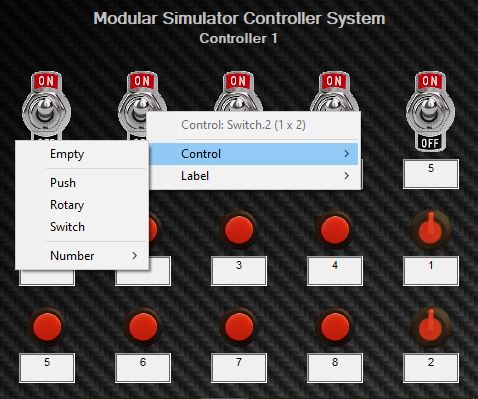
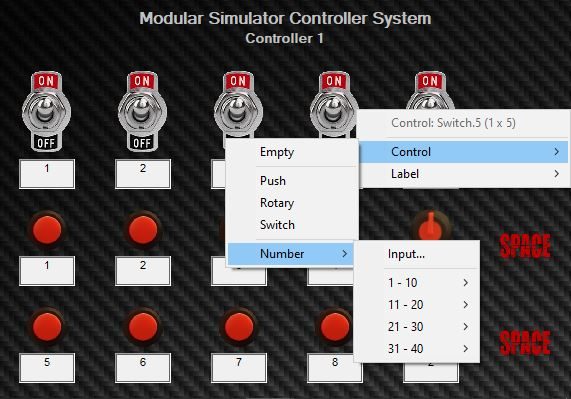
Documentation Update

diff --git a/Docs/Installation & Configuration.md b/Docs/Installation & Configuration.md
@@ -4,7 +4,7 @@ Download one of the releases, preferably the latest stable build, and unzip it a
 
 ![](https://github.com/SeriousOldMan/Simulator-Controller/blob/main/Docs/Images/Unblock.JPG)
 
-You might still encounter execution errors later on, beacause of Windows security restrictions. This is nothing I can change at the moment, at least not without buying an expensive certificate, that secures the source of the binaries. Therefore, an additional step might be necessary: You will find a little Powershell script in the *Utilities* folder, which you can copy to the *Binaries* folder and execute it there with Administrator privileges. These are the commands, which need be executed:
+You might still encounter execution errors later on because of Windows security restrictions. This is nothing I can change at the moment, at least not without buying an expensive certificate, that secures the source of the binaries. Therefore, an additional step might be necessary: You will find a little Powershell script in the *Utilities* folder, which you can copy to the *Binaries* folder and execute it there with Administrator privileges. These are the commands, which need be executed:
 
 	takeown.exe /F . /R /D N
 	Get-ChildItem -Path '.' -Recurse | Unblock-File
@@ -47,7 +47,7 @@ Hint: Beside simply running the configuration tool by double clicking it, there 
 
 The configuration tool consists of several pages or tabs. Below you will find a description of each tab. Beside the pages, there are the well known buttons "Ok", "Cancel" and "Apply".
 
-Note: You will find field labels that look like well known hyperlinks at several places in the configuration tool. Yes, you can click on them and a context sensitive section of the this documentation will be opened in your browser. With the *Save* mode dropdown menu in the lower left corner of the configuration dialog you can choose between *manual* and *Automatic* save mode of all your changes to list items in the different editors.
+Note: You will find field labels that look like well known hyperlinks at several places in the configuration tool. Yes, you can click on them and a context sensitive section of the this documentation will be opened in your browser. With the *Save* mode dropdown menu in the lower left corner of the configuration dialog you can choose between *Manual* and *Automatic* save mode of all your changes to list items in the different editors.
 
 ### Tab *General*
 
@@ -105,10 +105,13 @@ This tab represents the most important, the most versatile and also the most dif
 
 ![](https://github.com/SeriousOldMan/Simulator-Controller/blob/main/Docs/Images/Configuration%20Tab%204.JPG)
 
-Note: Beginning with Release 2.4, Simulator Controller supports multiple Button Boxes. For the moment, the functions defined on the *Controller tab* will span all Button Boxes. So, the first Button Box might define Button #1 to Button #8 and the second Button Box will define Button #9 onwards. Also, only one mode will be active for all Button Boxes at the same time. This might change in a future version.
+Note: Beginning with Release 2.4, Simulator Controller supports multiple Button Boxes. The functions defined on the *Controller tab* will span all Button Boxes. So, the first Button Box might define Button #1 to Button #8 and the second Button Box will define Button #9 onwards. A sngle mode can use controls from several Button Boxes, but you can also have multiple modes active at the same time, as long as these modes uses controls from distinct Button Boxes. See the documentation on the "System" plugin for more information on [how to control multiple simultaneous modes](https://github.com/SeriousOldMan/Simulator-Controller/wiki/Plugins-&-Modes#plugin-system).
 
-In the first step you have to define the Button Boxes, which will be activated by Simulator Controller, by entering them into the list. The name entered here must be identical to that used, when defining the corresponding Button Box layout and configuration, a task, which is described in a [dedicated documentation chapter](https://github.com/SeriousOldMan/Simulator-Controller/wiki/Installation-&-Configuration#button-box-layouts) below. The order, in which the Button Boxes are entered in the list, establish the order these boxes initially appear on screen, but you can move them around using the mouse later.
+In the first step you have to define the Button Boxes, which will be activated by Simulator Controller, by entering them into the list. Each Button Box must have a name, whihc might be displayed on the visual representation and you must chose a layout definition from the dropdown next to the name entry field. Button Box layouts can be configured using a separate tool, which is described in a [dedicated documentation chapter](https://github.com/SeriousOldMan/Simulator-Controller/wiki/Installation-&-Configuration#button-box-layouts) below. This tool can be opened by pressing the small little button with the three dots next to the dropdown menu.
 
+Note: The order, in which the Button Boxes are entered in the given list, establish the order these boxes initially appear on screen, but you can move them around using the mouse later.
+
+After you have all your Button Boxes created, you must configure the controller actions, which will be associated with the controls on your hardware controller or which might be triggered by other software systems using hotkeys. For each action and its corrsponding binding, you have to create an entry in the *Functions* list.
 In the *Bindings* group, you define one or two hotkeys and corresponding actions, depending on whether you have defined a unary or binary function type. 2-way toggles and dials need two bindings for the "On" and "Off", respectivly the "Increase" and "Decrease" trigger. The binding of a function happens by defining [hotkeys](https://github.com/SeriousOldMan/Simulator-Controller/wiki/Installation-&-Configuration#hotkeys), which might trigger the given function. You can define more than one hotkey descriptor, delimited by the vertical bar "|", for each trigger in the controller tab. This might be useful, if you have several sources, which can trigger a given function. For example you might have a function, which can be triggered by pushing a button on the controller, but also from the keyboard, which might be emulated by another tool, for example a voice recognition software.
 
 Additionally to definining hotkeys for keyboard or controller triggers, you can now use the voice recognition capabilities of Simulator Controller, which were introduced with Release 2.1 for the virtual race engineer (see [update notes](https://github.com/SeriousOldMan/Simulator-Controller/wiki/Update-Notes#release-21) for specific installation information). A voice trigger must be preceeded by "?" and you can use the full [phrase grammar](https://github.com/SeriousOldMan/Simulator-Controller/wiki/Virtual-Race-Engineer#phrase-grammars) capabilities of the voice recognition framework. But in most cases, you will use simple phrases like "?Next Page", which might be used as a voice trigger for the mode switch. Please be aware, that the recognition language uses the language setting, that is chosen in the configuration. As a result, you might have to change your phrases, if you decide to switch to a different language setting in the user interface.
@@ -226,7 +229,7 @@ Important: The ISO language code and the language name itself cannot be changed,
 
 # Button Box Layouts
 
-Beginning with Release 2.5 it is possible to define Button Box layouts using a structured configuration file. A future version will introduce a graphical editor to work on these configurations, but for now you have to create the configuration file using a text editor.
+Beginning with Release 2.5 it is possible to define Button Box layouts using a structured configuration file. Below you find a sample definition for information, but no worries, a graphical editor is available to handle this file.
 
 	[Controls]
 	Switch=2WayToggle;%kButtonBoxImagesDirectory%Photorealistic\Toggle Switch.png;54 x 85
@@ -235,19 +238,29 @@ Beginning with Release 2.5 it is possible to define Button Box layouts using a s
 	[Labels]
 	Label=56 x 30
 	[Layouts]
-	Main Controller.Layout=3 x 5
-	Main Controller.1=Switch.1,Label;Switch.2,Label;Switch.3,Label;Switch.4,Label;Switch.5,Label
-	Main Controller.2=Push.1,Label;Push.2,Label;Push.3,Label;Push.4,Label;Rotary.1,Label
-	Main Controller.3=Push.5,Label;Push.6,Label;Push.7,Label;Push.8,Label;Rotary.2,Label
-	Support Controller.Layout=3 x 4, 20, 60, 20, 15
-	Support Controller.1=Push.9,Label;Push.10,Label;Push.11,Label;Push.12,Label
-	Support Controller.2=Push.13,Label;Push.14,Label;Push.15,Label;Push.16,Label
-	Support Controller.3=Push.17,Label;Push.18,Label;Push.19,Label;Push.20,Label
+	Controller 1.Layout=3 x 5
+	Controller 1.1=Switch.1,Label;Switch.2,Label;Switch.3,Label;Switch.4,Label;Switch.5,Label
+	Controller 1.2=Push.1,Label;Push.2,Label;Push.3,Label;Push.4,Label;Rotary.1,Label
+	Controller 1.3=Push.5,Label;Push.6,Label;Push.7,Label;Push.8,Label;Rotary.2,Label
+	Controller 2.Layout=3 x 4, 20, 60, 20, 15
+	Controller 2.1=Push.9,Label;Push.10,Label;Push.11,Label;Push.12,Label
+	Controller 2.2=Push.13,Label;Push.14,Label;Push.15,Label;Push.16,Label
+	Controller 2.3=Push.17,Label;Push.18,Label;Push.19,Label;Push.20,Label
 
-You can define as many Button Boxes as you whish, but only those Boxes will be activated by Simulator Controller, that also have been added to the list of active Button Boxes list at the top of the [*Controller* tab](https://github.com/SeriousOldMan/Simulator-Controller/wiki/Installation-&-Configuration#tab-controller).
+You can define as many Button Box layouts as you want, but only those Boxes will be activated by Simulator Controller, that also have been added to the list of active Button Boxes list at the top of the [*Controller* tab](https://github.com/SeriousOldMan/Simulator-Controller/wiki/Installation-&-Configuration#tab-controller).
 
 In the given configuration file, you first have to define the different *Control* types, you want to use on your Button Box layouts. In the example above, three different *Control* types are defined, each one consisting of the name of the corresponding class, the image for the visual representation and the size information for this image. Supported classes are "1WayToggle", "2WayToggle", "Button" and "Dial", which corresponds with the controller functions used on the [*Controller* tab](https://github.com/SeriousOldMan/Simulator-Controller/wiki/Installation-&-Configuration#tab-controller). The given name of the *Control* type definition will then be used in the configuration of the concrete layouts in the *[Layouts]* section.
 
-You may define different *Label* types, if you are using label fields of different sizes for your controls. The example only introduces one label with a fixed size for all controls.
+You may define different *Label* types, if you are using label fields of different sizes for your controls. The example above only introduces one label with a fixed size for all controls.
 
-In the last section, the layouts of one or more Button Boxes are described using these components. For each Button Box you have to define the layout grid with *.Layout*" descriptor. The grid argument is required, the other optional parts as in "Support Controller.Layout=3 x 4, 20, 60, 20, 15" are the *Row Margin*, *Column Margin*, *Border Margin* and *Bottom Margin* with 20, 40, 20 and 15 as default. After defining the layout, you enumerate the controls of each row seperately. It is possible to leave positions in the grid blank, when not every corresponding position on your Button Box is occupied with a control. It is also possible to create a control without a label field. The number of each control must correspond with the number of the corresponding controller function defined on the [*Controller* tab](https://github.com/SeriousOldMan/Simulator-Controller/wiki/Installation-&-Configuration#tab-controller).
+In the last section, the layouts of one or more Button Boxes are described using these components. For each Button Box you have to define the layout grid with *.Layout*" descriptor. The grid argument ("R x C", where "R" define the number of rows and "C" the number of columns) is required, the other optional parts as in "Controller 2.Layout=3 x 4, 20, 60, 20, 15" are the *Row Margin*, *Column Margin*, *Sides Margin* and *Bottom Margin* with 20, 40, 20 and 15 as default. After defining the layout, you enumerate the controls of each row seperately. It is possible to leave positions in the grid blank, when not every corresponding position on your Button Box is occupied with a control, and it is also possible to create a control without a label field. The number of each control (as in "Push.17" must correspond with the number of the corresponding controller function defined on the [*Controller* tab](https://github.com/SeriousOldMan/Simulator-Controller/wiki/Installation-&-Configuration#tab-controller).
+
+After we now have an understanding of the Button Box layout definition format, let's have a look at the graphical editor, which handles this configuration file. As always, the file will be stored in the *Simulator Controller\Config* folder which resides in your user *Documents* folder.
+
+![](https://github.com/SeriousOldMan/Simulator-Controller/blob/main/Docs/Images/Button%20Box%20Editor%201.JPG)
+
+As you can see, the structure of this editor is very similar to the structure of the configuration file above. You first have to enter your controls and labels in the first two sections of the editor and then you can define the Button Box layouts. If you select an existing layout definition or when you save a newly created definition, a preview window of this Button Box layout will be opened in the lower right corner of your screen.
+
+![](https://github.com/SeriousOldMan/Simulator-Controller/blob/main/Docs/Images/Button%20Box%20Editor%202.JPG)
+
+This window will visualize the current layout and will change, whenever you change one of the definitions in the layout editor. Please note, that you have to save the definition changes using the *Save* buttons to update the preview window, as long as you do not have chosen the [*Automatic* save mode}(https://github.com/SeriousOldMan/Simulator-Controller/wiki/Installation-&-Configuration#using-the-configuration-tool). As you can see in the image above, freshly added rows and columns will show a free "Space", which you can fill up with *Controls*. Please note, that the "Space" marker will only be shown in the preview mode, so intentionally free space will look good on the final Button Box. You con click on each cell of the preview window and change the *Control* and the *Label*, which should occupy this cell, and you can choose the corresponding controller function number for the given control.

diff --git a/Docs/Classes Reference.md b/Docs/Classes Reference.md
@@ -219,8 +219,11 @@ Returns a list of all registered plugins. Some of these plugins might be inactiv
 #### *Modes[]*
 A list of all modes defined by all plugins. Here also, not all modes might be active in a given situation.
 	
-#### *ActiveMode[]*
-The currently active mode. This mode defines the currently active layer of controller functions and actions on your hardware controller.
+#### *ActiveModes[]*
+The currently active modes. These modes define the currently active layer of controller functions and actions on your hardware controllers.
+
+#### *ActiveMode[buttonBox :: ButtonBox}*
+Returns the mode, which is currently active for the given buttonBox argument. If more than one mode are active on this Button Box, only the first of these modes is returned.
 	
 #### *ActiveSimulator[]*
 If a simulation game is currently running, the name of this application is returned by this property.
@@ -239,6 +242,9 @@ Since *SimulatorController* is a singleton class, the single instance might be a
 
 #### [Factory Method] *createControllerFunction(descriptor :: String, configuration :: ConfigurationMap)*
 Returns an instance of [ControllerFunction](https://github.com/SeriousOldMan/Simulator-Controller/wiki/Classes-Reference#abstract-controllerfunction-simulator-controllerahk) according to the givven descriptor.
+
+#### *findButtonBox(function :: ControllerFunction)*
+Return the *ButtonBox* instance, that defines the given function, or *false*, if the function is not associated with a hardware controller.
 
 #### *findPlugin(name :: String)*
 Searches for a plugin with the given name. Returns *false*, if not found.
@@ -445,6 +451,9 @@ Returns the plugin, which has defined this mode.
 #### *Controller[]*
 The controller, where the plugin of this mode has been registered.
 
+#### *ButtonBoxes[]*
+Returns a list all [ButtonBox](https://github.com/SeriousOldMan/Simulator-Controller/wiki/Classes-Reference#abstract-buttonbox-extends-configurationitem-simulator-controllerahk) instances, on which this mode has registered actions.
+
 #### *Actions[]*
 A list of all actions defined by this mode.
 
@@ -455,6 +464,9 @@ Constructs a new mode. [registerMode](https://github.com/SeriousOldMan/Simulator
 
 #### *registerAction(action :: ControllerAction)*
 Registers the given action for this mode. In deviation from some other *register...* methods, *registerAction* is not called automatically by the constructor of [ControllerAction](https://github.com/SeriousOldMan/Simulator-Controller/wiki/Classes-Reference#controlleraction-simulator-controllerahk), since actions might be defined for plugins or for modes. Therefore you need to register a new action for the right owner object.
+
+#### *registerButtonBox(buttonBox :: ButtonBox)*
+Registers a visual representation for the hardware controller, for which this mode has defined one or more actions. This method is called automatically, so nothing to do on your side, but you may want to overwrite the method in situations, where you want to take special actions for one of these Button Boxes.
 
 #### *findAction(label :: String)*
 Searches for an action with the given label or name defined by this mode. Returns *false*, if not found.
@@ -533,6 +545,10 @@ This method must be implemented by a subclass of *ButtonBox*. The window with it
 
 #### *associateGui(window :: String, width :: Integer, height :: Integer, num1WayToggles :: Integer, num2WayToggles :: Integer, numButtons :: Integer, numDials :: Integer)*
 This method must be called by *createGui* to describe the Button Box to the framework.
+
+#### *findButtonBox(window :: String)*
+This class method return the *ButtonBox* instance, that defined the given window, or *false*, if there is no such instance.
+
 
 #### *registerControlHandle(descriptor :: String, handle :: Control Handle)*
 This method must be called by *createGui* as well for each label field of the Button Box. *handle* must be a control handle as defined by the *Hwnd* argument of [AutoHotkey Gui elements](https://www.autohotkey.com/docs/commands/Gui.htm).

diff --git a/Docs/Virtual Race Engineer.md b/Docs/Virtual Race Engineer.md
@@ -290,7 +290,7 @@ For the moment, the data collection consist of tyre setup information for the di
 
 Note: The database is stored in the *Simulator Controller\Setup Database* folder, which is located in your users *Documents* folder. Your own data files will be located in the *Local* subfolder, whereas the consolidated data will end up in the *Global* subfolder.
 
-*Very Important*: As long as we can't get the actual car setup information from *Assetto Corsa Competizione* via APIs, you **really** have to follow the guidelines from [above sections](https://github.com/SeriousOldMan/Simulator-Controller/wiki/Virtual-Race-Engineer#race-engineer-settings), so that Jona has a correct understanding of your car and tyre setup. This has been important in the past to get a correct setup for an upcoming pitstop, but it is even more important when building the setup databse, so that we do not end up with compromised data. If you haven't created the required setup information with the *Race Engineer Settings* application, please make sure that Jona is disabled for this race, for example by [disabling the virtual race engineer](https://github.com/SeriousOldMan/Simulator-Controller/wiki/Plugins-&-Modes#vitual-race-engineer-integration) with your hardware controller. If you missed that, you might want to delete the recorded data file for the car and track in the above mentioned database folder.
+*Very Important*: As long as we can't get the actual car setup information from *Assetto Corsa Competizione* via APIs, you **really** have to follow the guidelines from [above sections](https://github.com/SeriousOldMan/Simulator-Controller/wiki/Virtual-Race-Engineer#race-engineer-settings), so that Jona has a correct understanding of your car and tyre setup. This has been important in the past to get a correct setup for an upcoming pitstop, but it is even more important when building the setup databse, so that we do not end up with compromised data. Jona will ask you at the end of the race, if you were happy with your setup and if we want to include the setup information in the database. Please only answer "Yes" here, if you are sure, that the setup information has been transferred correctly to Jona, as described above. Please note, that you still may have had a too low or too high hot tyre pressure during your race, because your initial setup was wrong in the first place. This is no problem, since Jona will store the corrected values in the database, as long as your initial setup values are known.
 
 ### How it works
 

diff --git a/Docs/Plugins & Modes.md b/Docs/Plugins & Modes.md
@@ -27,9 +27,11 @@ The "System" plugin creates the controller mode "Launch", which serves as a laun
 
 The "System" plugin accepts one configuration argument in the [Plugins tab](https://github.com/SeriousOldMan/Simulator-Controller/wiki/Installation-&-Configuration#tab-plugins) of the configuration tool, which you almost always will provide:
 
-	modeSelector: *modeSelectorFunction*, shutdown: *shutdownFunction*
+	modeSelector: *modeSelectorFunction1* *modeSelectorFunction2* ...;
+	shutdown: *shutdownFunction*
 	
-The *modeSelector* parameter allows you to define a controller function to switch between modes. The *modeSelectorFunction* must be in the descriptor format, i.e. *"functionType*.*number*". You can use binary functions, such as 2-way toggle switches or dials, to switch forward and backward between modes, but a simple push button can also be used. Example: "modeSelector: 2WayToggle.1".
+The *modeSelector* parameter allows you to define controller functions that switch between modes on your Button Boxes. The *modeSelectorFunctionX* must be in the descriptor format, i.e. *"functionType*.*number*". You can use binary functions, such as 2-way toggle switches or dials, to switch forward and backward between modes, but a simple push button can also be used. Example: "modeSelector: 2WayToggle.1". If you have multiple Button Boxes, you may want to create a mode selector for each one, especially, if you defined modes, whose actions are exclusive for one of those Button Boxes. Doing this, you can have mutiple modes active on the same time on your Button Boxes and you can switch between those modes on each of those Button Boxes separately.
+
 With the *shutdown* parameter, a unary function can be supplied to shutdown the complete simulator system. This function will be available in the "Launch" mode.
 
 ## Plugin *Tactile Feedback*

diff --git a/Docs/Updates.md b/Docs/Updates.md
@@ -43,6 +43,14 @@ Note: Some of you might want to have more control. No problem. All the files in 
 
 ***
 
+## Release 2.7
+
+Most of the changes for release 2.7 will be handled automatically. You may want to check your Button Box configuration using the configuration tool and the [new Button Box layout editor](), if you have defined your own Button Box configuration file in the past.
+
+The *raceEngineerSettings* parameter of the [ACC plugin](https://github.com/SeriousOldMan/Simulator-Controller/wiki/Plugins-&-Modes#plugin-acc) has been renamed to *raceEngineerOpenSettings*. The old parameter still works, but is deprecated, so want to rename the parameter, if you have used it in your configuration.
+
+Since many of you did not trust the setup database collection, the text of the consent changed to state specifically, that only tyre setup informations are collected. Therefore the consent dialog will appear again and you might rethink your decision. If more data will be collected in the future, I promise, that you can decide for each data category separately.
+
 ## Release 2.6
 
 Nothing major for this release, everything will be taken care of by the automated update procedure. For political correctness (sorry for my previous choice of words, but I am an IT guy and in the world of IT these terminology is of widespread use), I renamed "Master Controller" to "Main Controller" and "Slave Controller" to "Support Controller" for the Button Box configurations. As said, this renaming will be handled by the automated update, but if you have configured your own Button Boxes based on the preconfigured ones of the previous release, you might want to check in your configuration, whether everything is as expected after the update.

diff --git a/Docs/Constants Reference.md b/Docs/Constants Reference.md
@@ -7,7 +7,7 @@ All these constants define paths pointing to a specific folder in the Simulator 
 #### *kSplashMediaDirectory, kScreenImagesDirectory, kButtonBoxImagesDirectory, kIconsDirectory*
 Paths for graphical and audio resources contained in the Simulator Controller distribution.
 
-#### *kUserHomeDirectory, kUserConfigDirectory, kUserSplashMediaDirectory, kUserScreenImagesDirectory, kUserPluginsDirectory, kLogsDirectory*
+#### *kUserHomeDirectory, kUserConfigDirectory, kUserSplashMediaDirectory, kUserScreenImagesDirectory, kUserPluginsDirectory, kLogsDirectory*, *kSetupDatabaseDirectory*
 A special folder *Simulator Controller* will be created in the user *Documents* folder. It will contain various subfolders for adding user-specific extensions or substitutions (media, plugins, ...), and for storing configuration and log files.
 
 #### *kSimulatorConfigurationFile, kSimulatorSettingsFile*
